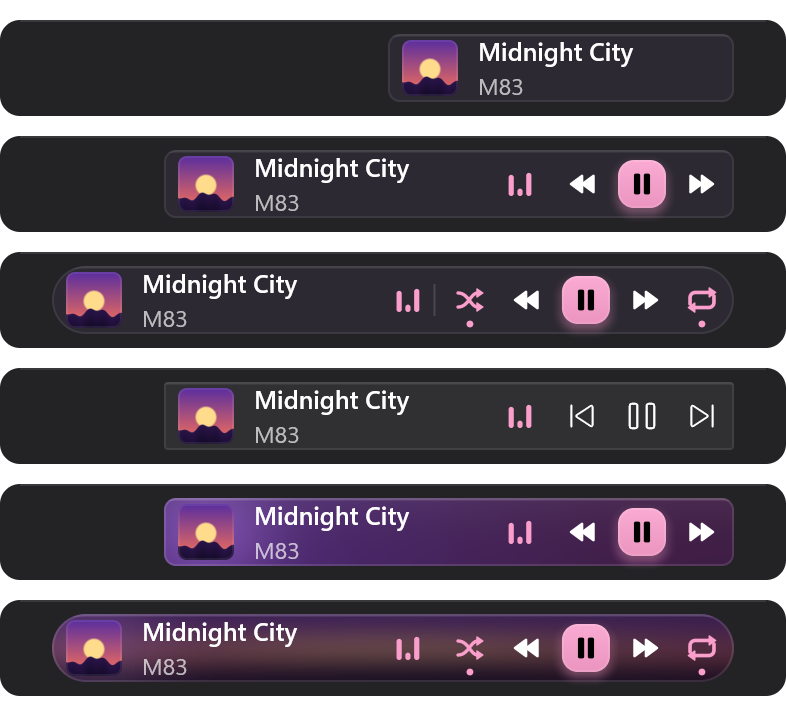
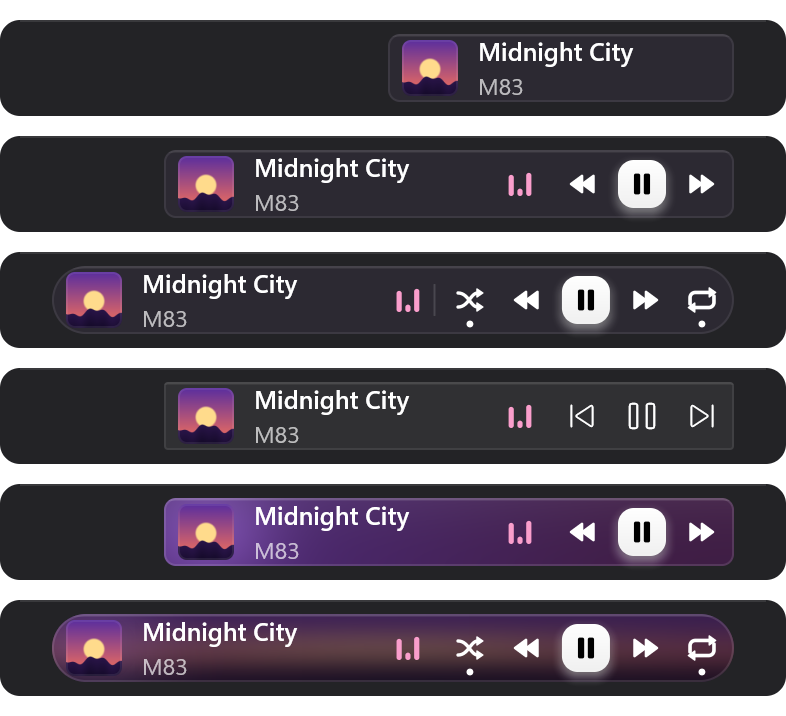
docs: botões laterais, cor dos controles e barras animadas
README com a cor dos controles e a opção dos botões laterais, sem a
frase dos botões apagados, e as barras de volume animadas no mixer;
capturas do card e do widget refeitas com os botões laterais novos.

diff --git a/README.md b/README.md
@@ -83,6 +83,12 @@ Aviso de teclas com fundo **sólido**, **acrílico** ou na **cor de destaque**, 
   desenhados como formas cheias e arredondadas (no card e na barra), no lugar
   dos ícones finos de contorno; dá para voltar ao contorno do Fluent (Card
   expandido > Estilo dos ícones).
+- **Cor dos controles** (na barra e no card, cada um com a sua): branco (padrão;
+  escuro sobre fundos claros), branco e destaque, cor da capa, cor de destaque
+  ou qualquer cor num seletor (amostras, matiz e saturação, brilho, hex). Os
+  **botões laterais** (aleatório, anterior, próximo, repetir) ficam por padrão
+  na mesma cor e tão fortes quanto o do meio; dá para escolher outra cor para
+  eles e deixá-los mais suaves (Força dos botões laterais).
 - **Card expandido** (clique na música): capa grande, aleatório / anterior / play /
   próximo / repetir, barra de progresso arrastável e volume. O app de origem
   (Spotify, Brave…) fica escondido por padrão; com a opção "Mostrar app de
@@ -98,14 +104,14 @@ Aviso de teclas com fundo **sólido**, **acrílico** ou na **cor de destaque**, 
   que não deixa o Windows mudar isso, o Taskbeat aperta os botões da própria
   página, sem trazer a janela para a frente, e lê o estado do repetir (desativado
   → tudo → uma); o aleatório do YouTube Music embaralha a fila de novo a cada
-  clique. Nos outros sites os botões ficam apagados e o clique traz o player para
-  a frente.
+  clique. Nos outros sites o clique nesses botões traz o player para a frente.
 - **Mixer de volume** (opcional, ligado por padrão): uma setinha embaixo do
   card abre, com animação, o volume de cada app que usa a saída de áudio (ícone,
   nome, slider, mudo e a roda do mouse), juntando os processos do mesmo app,
   mais os sons do sistema e o nome do dispositivo de saída. Atualiza sozinho
-  pelos avisos do Windows (app novo, volume mudado em outro lugar). Com ele
-  aberto o card não fecha sozinho. No Mac, que não tem volume por app, a
+  pelos avisos do Windows (app novo, volume mudado em outro lugar). As barras
+  de volume (do mixer e a principal) sobem e descem suaves: enchem ao abrir e
+  esvaziam ao fechar. Com ele aberto o card não fecha sozinho. No Mac, que não tem volume por app, a
   setinha abre a lista das saídas de áudio para escolher a padrão.
 - **Atalhos dos apps de música** (opcional, ligado por padrão): o ícone de cada
   player instalado (Spotify, YouTube Music instalado pelo navegador, Apple Music,
